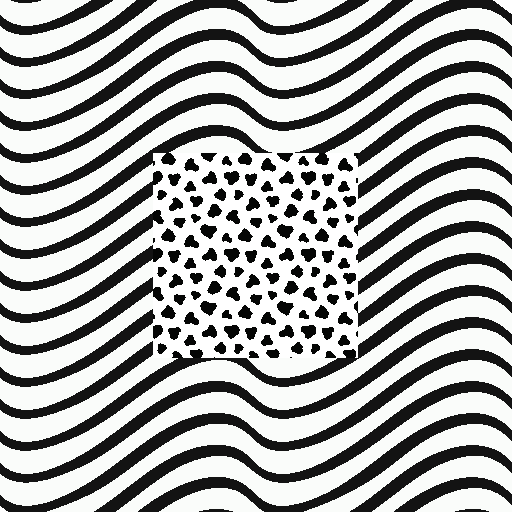
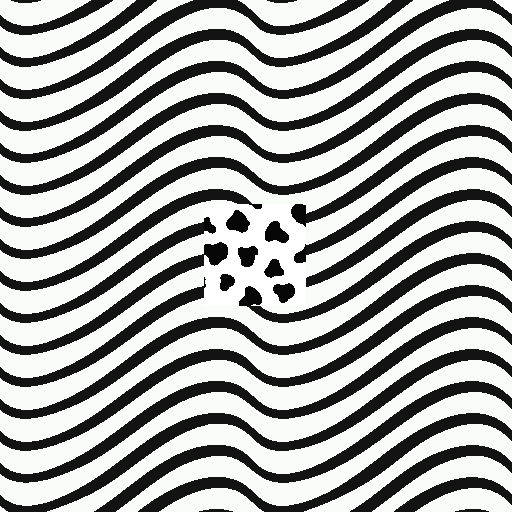
Sync generator: svg_square defaults 0.2/0.6, shorter panel titles

Changed region(s): [[0.2812, 0.2812, 0.7188, 0.7188]]

diff --git a/stereo_generator/generate_perceptual_stereo.py b/stereo_generator/generate_perceptual_stereo.py
@@ -3018,9 +3018,9 @@ def build_summary_panels(input_dir: str, stem: str) -> List[Panel]:
     field_asset, field_subtitle = colorize_float_map(read_npy(paths["field"]), zero_is_background=False)
 
     return [
-        Panel("Physical left image", relative_label(paths["left"], input_dir), svg_data_uri(paths["left"])),
+        Panel("Left image", relative_label(paths["left"], input_dir), svg_data_uri(paths["left"])),
         Panel("Cyclopean image", relative_label(paths["cyclopean"], input_dir), svg_data_uri(paths["cyclopean"])),
-        Panel("Physical right image", relative_label(paths["right"], input_dir), svg_data_uri(paths["right"])),
+        Panel("Right image", relative_label(paths["right"], input_dir), svg_data_uri(paths["right"])),
         Panel("Left-view disparity", left_disp_subtitle, left_disp_asset),
         Panel("Left-view segmentation", left_seg_subtitle, left_seg_asset),
         Panel("Left-view UDF", left_field_subtitle, left_field_asset),
@@ -3511,9 +3511,9 @@ def build_shared_variant_summary_panels(
     disp_range = summary_disp_value_range([npy for pair in disp_npys.values() for npy in pair])
 
     panels = [
-        Panel("Physical left image", relative_label(shared_paths["left"], input_dir), svg_data_uri(shared_paths["left"])),
+        Panel("Left image", relative_label(shared_paths["left"], input_dir), svg_data_uri(shared_paths["left"])),
         Panel("Cyclopean image", relative_label(shared_paths["cyclopean"], input_dir), svg_data_uri(shared_paths["cyclopean"])),
-        Panel("Physical right image", relative_label(shared_paths["right"], input_dir), svg_data_uri(shared_paths["right"])),
+        Panel("Right image", relative_label(shared_paths["right"], input_dir), svg_data_uri(shared_paths["right"])),
     ]
     for vk in variant_keys:
         vp = variant_paths[vk]
@@ -3837,7 +3837,7 @@ def main() -> None:
     parser.add_argument(
         "--svgsquare-square-size-frac",
         type=float,
-        default=0.40,
+        default=0.20,
         help="SVG-square scene: square size as a fraction of min(image height, width).",
     )
     parser.add_argument(
@@ -3879,11 +3879,11 @@ def main() -> None:
     parser.add_argument(
         "--svgsquare-crop-scale",
         type=float,
-        default=1.0,
+        default=0.6,
         help=(
             "SVG-square scene: size of the square-texture crop window as a fraction of the square "
-            "(in texture-native units), scaled up to exactly fill the square. 1.0 (default) crops "
-            "at native scale with no resizing; <1 zooms in for bigger/coarser-looking spots; "
+            "(in texture-native units), scaled up to exactly fill the square. 1.0 crops at native "
+            "scale with no resizing; <1 (default) zooms in for bigger/coarser-looking spots; "
             ">1 zooms out for smaller/finer ones."
         ),
     )

diff --git a/stereo_generator/README.md b/stereo_generator/README.md
@@ -190,14 +190,14 @@ These tables summarize every flag and its default; `python3 generate_perceptual_
 
 | Flag | Default | Meaning |
 |---|---|---|
-| `--svgsquare-square-size-frac` | `0.40` | Square size as a fraction of `min(image height, width)`. |
+| `--svgsquare-square-size-frac` | `0.20` | Square size as a fraction of `min(image height, width)`. |
 | `--svgsquare-square-z` | `1.2` | Depth of the near square; must be nearer than `--svgsquare-background-z`. |
 | `--svgsquare-background-z` | `1.6` | Depth of the far background plane. |
 | `--svgsquare-square-texture` | `cow_pattern.svg` | SVG file textured onto the square (must have a `<pattern>` fill). |
 | `--svgsquare-background-texture` | `wavy_lines.svg` | SVG file textured onto the background, scaled to fill the frame. |
 | `--svgsquare-crop-x-frac` | `0.5` | Horizontal position (0–1) of the square's texture crop window within the available margin. |
 | `--svgsquare-crop-y-frac` | `0.5` | Vertical position (0–1) of that crop window. |
-| `--svgsquare-crop-scale` | `1.0` | Crop window size as a fraction of the square (texture-native units), scaled to fill the square. `1.0` crops at native scale (no resizing); `<1` zooms in (bigger/coarser spots); `>1` zooms out (smaller/finer spots). |
+| `--svgsquare-crop-scale` | `0.6` | Crop window size as a fraction of the square (texture-native units), scaled to fill the square. `1.0` crops at native scale (no resizing); `<1` zooms in (bigger/coarser spots); `>1` zooms out (smaller/finer spots). |
 
 ## Further help / customizing parameters
 
